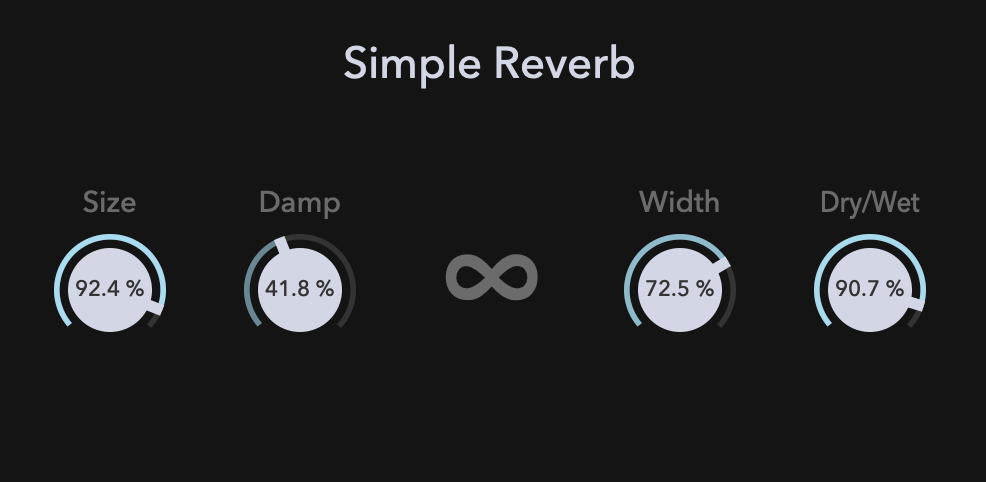
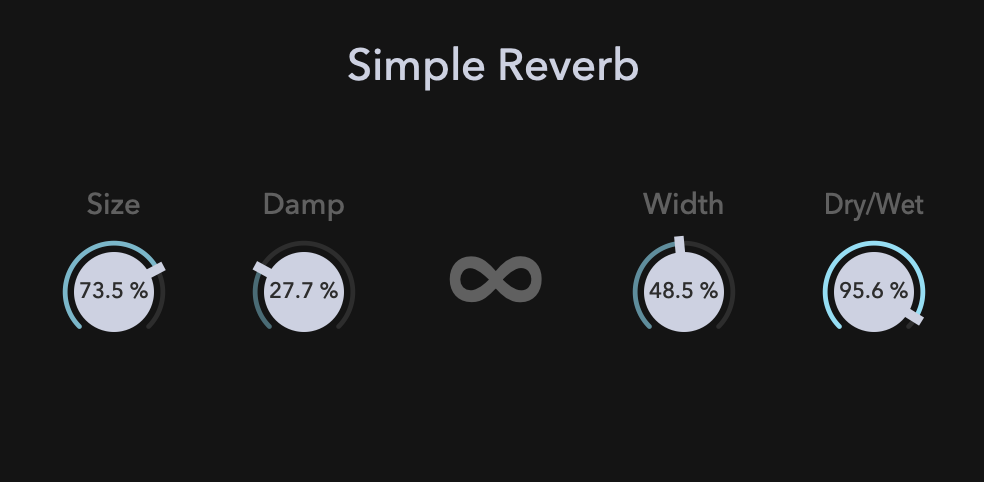
Update dial design

diff --git a/Source/CustomLookAndFeel.cpp b/Source/CustomLookAndFeel.cpp
@@ -25,8 +25,8 @@ void CustomLookAndFeel::drawRotarySlider (juce::Graphics& g, int x, int y, int w
     auto bounds = juce::Rectangle<float> (x, y, width, height).reduced (2.0f);
     auto radius = juce::jmin (bounds.getWidth(), bounds.getHeight()) / 2.0f;
     auto toAngle = rotaryStartAngle + sliderPos * (rotaryEndAngle - rotaryStartAngle);
-    auto lineW = radius * 0.1f;
-    auto arcRadius = radius - lineW * 0.5f;
+    auto lineW = radius * 0.085f;
+    auto arcRadius = radius - lineW * 1.5f;
     
     juce::Path backgroundArc;
     backgroundArc.addCentredArc (bounds.getCentreX(),
@@ -37,10 +37,10 @@ void CustomLookAndFeel::drawRotarySlider (juce::Graphics& g, int x, int y, int w
                                  rotaryStartAngle,
                                  rotaryEndAngle,
                                  true);
-
+    
     g.setColour (blackGrey);
-    g.strokePath (backgroundArc, juce::PathStrokeType (lineW, juce::PathStrokeType::beveled, juce::PathStrokeType::butt));
-
+    g.strokePath (backgroundArc, juce::PathStrokeType (lineW, juce::PathStrokeType::curved, juce::PathStrokeType::rounded));
+    
     juce::Path valueArc;
     valueArc.addCentredArc (bounds.getCentreX(),
                             bounds.getCentreY(),
@@ -50,24 +50,22 @@ void CustomLookAndFeel::drawRotarySlider (juce::Graphics& g, int x, int y, int w
                             rotaryStartAngle,
                             toAngle,
                             true);
-    
-    g.strokePath (valueArc, juce::PathStrokeType (lineW, juce::PathStrokeType::beveled, juce::PathStrokeType::butt));
-    
+        
     auto alpha = 0.1f + (float) slider.getValue() * 0.9f;
     auto brightness = 0.4f + (float) slider.getValue() * 0.6f;
 
     g.setColour (fill.withAlpha (alpha).brighter (brightness));
-    g.strokePath (valueArc, juce::PathStrokeType (lineW, juce::PathStrokeType::beveled, juce::PathStrokeType::butt));
+    g.strokePath (valueArc, juce::PathStrokeType (lineW, juce::PathStrokeType::curved, juce::PathStrokeType::rounded));
 
     auto thumbWidth = lineW * 2.0f;
  
-    juce::Path pointer;
-    pointer.addRectangle (-thumbWidth / 2, -thumbWidth / 2, thumbWidth, radius + lineW);
+    juce::Path thumb;
+    thumb.addRectangle (-thumbWidth / 2, -thumbWidth / 2, thumbWidth, radius + lineW);
     
     g.setColour (offWhite);
-    g.fillPath (pointer, juce::AffineTransform::rotation (toAngle + 3.12f).translated (bounds.getCentre()));
+    g.fillPath (thumb, juce::AffineTransform::rotation (toAngle + 3.12f).translated (bounds.getCentre()));
 
-    g.fillEllipse (bounds.reduced (7.0f));
+    g.fillEllipse (bounds.reduced (8.0f));
 }
 
 juce::Label* CustomLookAndFeel::createSliderTextBox (juce::Slider& slider)
